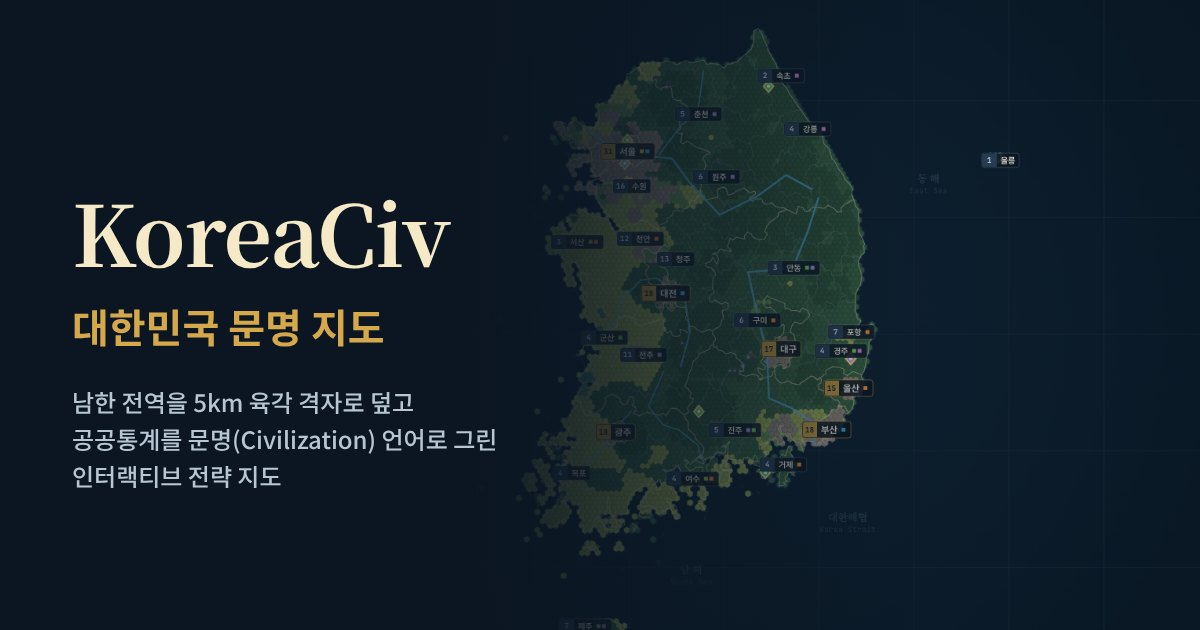
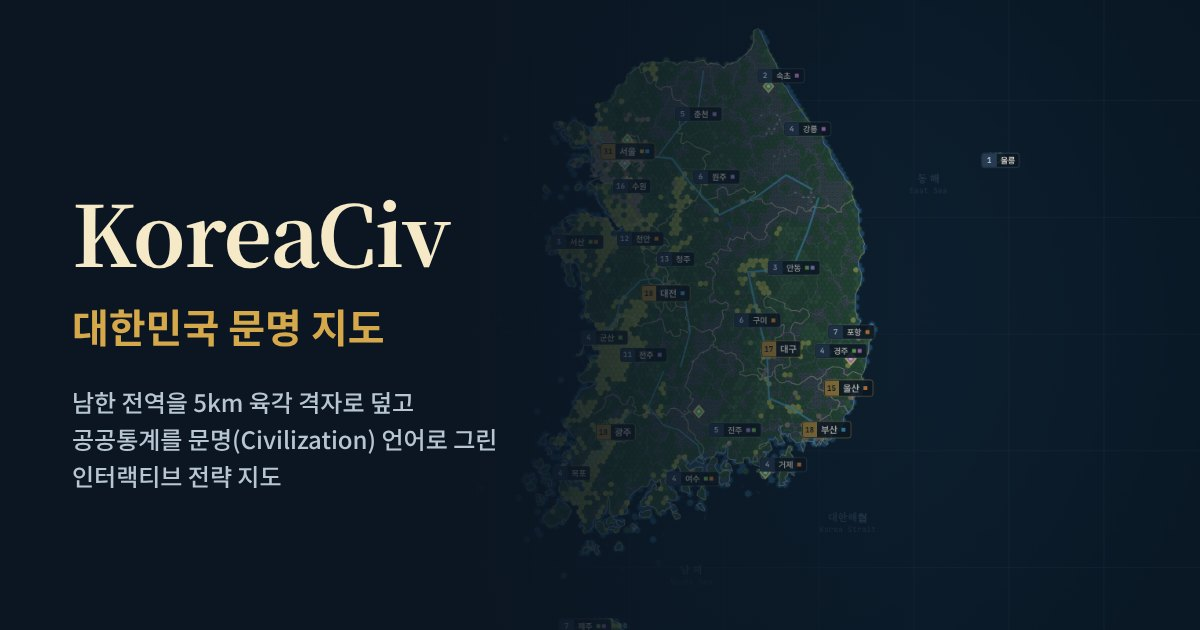
feat: use real DEM relief and land cover for hex terrain
- relief follows PLAN.md thresholds (300m/600m) with no elevation bonus
- terrain is the hex's majority land-cover class; synthetic model only for 4 hexes without DEM land pixels
- terrain data and react ship as separate chunks (entry JS 267KB)
- source panel and lens labels name Copernicus/WorldCover; legend adds water
- preview image regenerated

Claude-Session: https://claude.ai/code/session_011NWZEkGnLKyrxhXEVJG9Q7

diff --git a/src/engine/hexGrid.ts b/src/engine/hexGrid.ts
@@ -19,6 +19,7 @@ import {
 } from '../data/koreaGeography';
 import { buildComputedCities, RAW_CITIES } from '../data/koreaCities';
 import { KOREA_FACILITIES } from '../data/koreaFacilities';
+import { classifyReliefByRule, lookupHexTerrain } from '../data/terrainData';
 import type {
   LiveBootstrapResponse,
   LiveBoundaryFeature,
@@ -165,11 +166,29 @@ function getCityIslandGroup(cityId: string): HexTile['islandGroup'] {
   return 'mainland';
 }
 
-function classifyRelief(reliefM: number, elevationM: number): ReliefType {
-  const effectiveRelief = reliefM + (elevationM > 850 ? 220 : elevationM > 520 ? 110 : 0);
-  if (effectiveRelief >= CIV_RULES.relief.mountainThresholdM) return 'mountain';
-  if (effectiveRelief >= CIV_RULES.relief.hillsThresholdM) return 'hills';
-  return 'flat';
+/**
+ * 칸의 표고·기복·토지피복 결정.
+ * 원자료 집계(pipeline/terrain.py)가 있으면 그 값을 쓰고, 없는 칸(DEM 육지 화소가 없는 작은 섬 등)만
+ * 합성 표고 모델(샘플 7점)로 추정함. 기복 판정은 두 경우 모두 PLAN.md 규칙(300m / 600m)
+ */
+function resolveHexTerrain(
+  id: string,
+  sumElev: number,
+  minElev: number,
+  maxElev: number
+): { elevationM: number; reliefM: number; relief: ReliefType; landCoverTerrain?: TerrainType } {
+  const real = lookupHexTerrain(id);
+  if (real) {
+    return {
+      elevationM: real.elevationM,
+      reliefM: real.reliefM,
+      relief: classifyReliefByRule(real.reliefM),
+      landCoverTerrain: real.terrain,
+    };
+  }
+  const elevationM = Math.round(sumElev / SAMPLE_OFFSETS.length);
+  const reliefM = Math.round((maxElev - minElev) * 1.45);
+  return { elevationM, reliefM, relief: classifyReliefByRule(reliefM) };
 }
 
 function classifyTerrain(
@@ -275,7 +294,10 @@ type RawHexSeed = Omit<
   | 'civFood'
   | 'civScience'
   | 'terrain'
->;
+> & {
+  /** 원자료(ESA WorldCover) 토지피복 최다 유형. 없으면 추정 규칙으로 판정 */
+  landCoverTerrain?: TerrainType;
+};
 
 function assembleWorldFromCitiesAndHexes(
   cities: CityComputed[],
@@ -404,7 +426,7 @@ function assembleWorldFromCitiesAndHexes(
       const plainScore = getPlainScore(h.x, h.y);
       const marsh = isMarshZone(h.x, h.y);
 
-      const terrain = classifyTerrain(
+      const terrain = h.landCoverTerrain ?? classifyTerrain(
         popDensity,
         h.elevationM,
         h.relief,
@@ -670,9 +692,13 @@ export function getKoreaCivWorld(): KoreaCivWorld {
       const landFraction = landHits / SAMPLE_OFFSETS.length;
       if (landFraction < CIV_RULES.grid.minLandFraction || !primaryGroup) continue;
 
-      const elevationM = Math.round(sumElev / SAMPLE_OFFSETS.length);
-      const reliefM = Math.round((maxElev - minElev) * 1.45);
-      const relief = classifyRelief(reliefM, elevationM);
+      const id = `${q},${r}`;
+      const { elevationM, reliefM, relief, landCoverTerrain } = resolveHexTerrain(
+        id,
+        sumElev,
+        minElev,
+        maxElev
+      );
       const { lat, lon } = kmToLatLon(x, y);
 
       let candidates = citiesByGroup.get(primaryGroup);
@@ -697,7 +723,6 @@ export function getKoreaCivWorld(): KoreaCivWorld {
         }
       }
 
-      const id = `${q},${r}`;
       landCoordsSet.add(id);
 
       if (x < minX) minX = x;
@@ -718,6 +743,7 @@ export function getKoreaCivWorld(): KoreaCivWorld {
         elevationM,
         reliefM,
         relief,
+        landCoverTerrain,
         cityId: bestCity.id,
         province: bestCity.province,
       });
@@ -1049,13 +1075,15 @@ export function rebuildWorldWithLiveApiData(bootstrap: LiveBootstrapResponse): K
         }
       });
 
-      const elevationM = Math.round(sumElev / SAMPLE_OFFSETS.length);
-      const reliefM = Math.round((maxElev - minElev) * 1.45);
-      const relief = classifyRelief(reliefM, elevationM);
+      const id = `${q},${r}`;
+      const { elevationM, reliefM, relief, landCoverTerrain } = resolveHexTerrain(
+        id,
+        sumElev,
+        minElev,
+        maxElev
+      );
       const { lat, lon } = kmToLatLon(x, y);
       const islandGroup = getCityIslandGroup(bestCityId);
-
-      const id = `${q},${r}`;
       landCoordsSet.add(id);
 
       if (x < minX) minX = x;
@@ -1076,6 +1104,7 @@ export function rebuildWorldWithLiveApiData(bootstrap: LiveBootstrapResponse): K
         elevationM,
         reliefM,
         relief,
+        landCoverTerrain,
         cityId: bestCityId,
         province: bestProv,
       });

diff --git a/src/data/koreaFacilities.ts b/src/data/koreaFacilities.ts
@@ -385,22 +385,22 @@ export const DATA_SOURCES: DataSourceInfo[] = [
   {
     id: 'dem',
     item: '지형 (DEM · 표고·기복)',
-    agency: '국토지리정보원',
-    unit: '5km 육각 타일 표고·기복 집계',
-    refYear: '2024',
-    status: 'estimated',
-    note: '추정: DEM 원자료 대신 주요 산·평야 좌표로 만든 합성 표고 모델을 씁니다. 기복 300m 이상 Hills, 600m 이상 Mountain에 고지대 보정을 더해 판정합니다.',
-    url: 'https://map.ngii.go.kr',
+    agency: 'Copernicus DEM GLO-90 (유럽우주국·Airbus)',
+    unit: '90m DEM을 5km 육각 칸별 평균 표고·기복(최고−최저)으로 집계',
+    refYear: '2021',
+    status: 'active',
+    note: '칸 안 기복 300m 이상 Hills, 600m 이상 Mountain. 국토지리정보원 DEM 대신 PLAN.md의 대안 자료를 사용. 건물·수목 높이가 포함된 표면 모델(DSM)입니다.',
+    url: 'https://registry.opendata.aws/copernicus-dem/',
   },
   {
     id: 'landcover',
     item: '토지피복 대분류',
-    agency: '기후에너지환경부 환경공간정보서비스',
-    unit: '7유형 (시가화·농업·산림·초지·습지·나지·수역)',
-    refYear: '2023',
-    status: 'estimated',
-    note: '추정: 토지피복 원자료 대신 인구밀도·표고·농업 비중으로 피복 유형을 추정해 Civilization 기본 지형으로 변환합니다.',
-    url: 'https://egis.me.go.kr',
+    agency: 'ESA WorldCover 2021 v200 (CC BY 4.0)',
+    unit: '10m 피복도를 약 80m로 줄여 칸별 최다 유형 집계',
+    refYear: '2021',
+    status: 'active',
+    note: '칸 안에서 면적이 가장 큰 유형을 Civilization 기본 지형으로 변환(바다가 절반 넘는 해안 칸은 수역). 환경공간정보서비스 대분류 대신 PLAN.md의 대안 자료를 사용했습니다.',
+    url: 'https://esa-worldcover.org/',
   },
   {
     id: 'power',

diff --git a/src/data/terrainData.ts b/src/data/terrainData.ts
@@ -1,0 +1,45 @@
+import type { ReliefType, TerrainType } from '../types/civ';
+import { CIV_RULES } from './rules';
+import hexTerrain from './generated/hexTerrain.json';
+
+/**
+ * 칸별 지형 원자료 집계 결과 (pipeline/terrain.py가 생성)
+ * - 표고·기복: Copernicus DEM GLO-90
+ * - 토지피복: ESA WorldCover 2021 v200 (칸 안 최다 유형)
+ */
+export interface HexTerrainRecord {
+  elevationM: number;
+  reliefM: number;
+  terrain: TerrainType;
+}
+
+interface HexTerrainFile {
+  generatedAt: string;
+  sources: string[];
+  terrains: TerrainType[];
+  cells: Record<string, [number, number, number]>;
+}
+
+const data = hexTerrain as unknown as HexTerrainFile;
+
+export const HEX_TERRAIN_META = {
+  generatedAt: data.generatedAt,
+  sources: data.sources,
+  cellCount: Object.keys(data.cells).length,
+};
+
+/** 칸 ID("q,r")의 원자료 지형. 집계 결과가 없는 칸(육지 화소 없음)은 null */
+export function lookupHexTerrain(id: string): HexTerrainRecord | null {
+  const cell = data.cells[id];
+  if (!cell) return null;
+  const terrain = data.terrains[cell[2]];
+  if (!terrain) return null;
+  return { elevationM: cell[0], reliefM: cell[1], terrain };
+}
+
+/** PLAN.md 4절 규칙: 칸 내 기복 300m 이상 Hills, 600m 이상 Mountain */
+export function classifyReliefByRule(reliefM: number): ReliefType {
+  if (reliefM >= CIV_RULES.relief.mountainThresholdM) return 'mountain';
+  if (reliefM >= CIV_RULES.relief.hillsThresholdM) return 'hills';
+  return 'flat';
+}

diff --git a/src/components/LensSidebar.tsx b/src/components/LensSidebar.tsx
@@ -457,7 +457,7 @@ export const LensSidebar: React.FC<LensSidebarProps> = ({
                     : activeLensDef.legendStops;
                 return (
                   <>
-                    <div className="grid grid-cols-5 gap-0.5 overflow-hidden rounded-xs">
+                    <div className="grid gap-0.5 overflow-hidden rounded-xs" style={{ gridTemplateColumns: `repeat(${stops.length}, minmax(0, 1fr))` }}>
                       {stops.map((stop) => (
                         <div
                           key={stop.label}
@@ -466,7 +466,7 @@ export const LensSidebar: React.FC<LensSidebarProps> = ({
                         />
                       ))}
                     </div>
-                    <div className="mt-1 grid grid-cols-5 gap-0.5 text-center">
+                    <div className="mt-1 grid gap-0.5 text-center" style={{ gridTemplateColumns: `repeat(${stops.length}, minmax(0, 1fr))` }}>
                       {stops.map((stop) => (
                         <span
                           key={stop.label}

diff --git a/src/data/rules.ts b/src/data/rules.ts
@@ -461,14 +461,15 @@ export const LENS_DEFINITIONS: LensDefinition[] = [
     phase: 1,
     category: 'core',
     unit: '표고 m',
-    description: '토지피복 대분류(시가화·농업·산림·초지·습지)와 DEM 기복(구릉 ≥300m, 산악 ≥600m)을 결합한 기본 문명 지도입니다.',
-    sourceLabel: '추정 · 합성 표고 모델과 인구밀도 기반 피복 추정 (DEM·토지피복 원자료 미반영)',
+    description: '토지피복 최다 유형(시가화·농업·산림·초지·습지·수역)과 칸 안 DEM 기복(구릉 ≥300m, 산악 ≥600m)을 결합한 기본 문명 지도입니다.',
+    sourceLabel: 'Copernicus DEM GLO-90 · ESA WorldCover 2021 (칸별 집계)',
     legendStops: [
       { color: '#8E8477', label: '시가화' },
       { color: '#97A857', label: '농업' },
       { color: '#396144', label: '산림' },
       { color: '#475559', label: '산악' },
       { color: '#4A7872', label: '습지' },
+      { color: '#235173', label: '수역' },
     ],
   },
   {

diff --git a/vite.config.ts b/vite.config.ts
@@ -48,6 +48,20 @@ export default defineConfig(() => {
         },
       },
     ],
+    build: {
+      rolldownOptions: {
+        output: {
+          // 지형 원자료(약 140KB)와 react 계열 라이브러리를 별도 파일로 분리.
+          // 코드만 바뀌거나 데이터만 바뀔 때 나머지는 브라우저 캐시를 그대로 씀
+          codeSplitting: {
+            groups: [
+              { name: 'terrain-data', test: /src[\\/]data[\\/]generated[\\/]/ },
+              { name: 'vendor', test: /node_modules[\\/](react|react-dom|scheduler)[\\/]/ },
+            ],
+          },
+        },
+      },
+    },
     resolve: {
       alias: {
         '@': path.resolve(import.meta.dirname, '.'),
